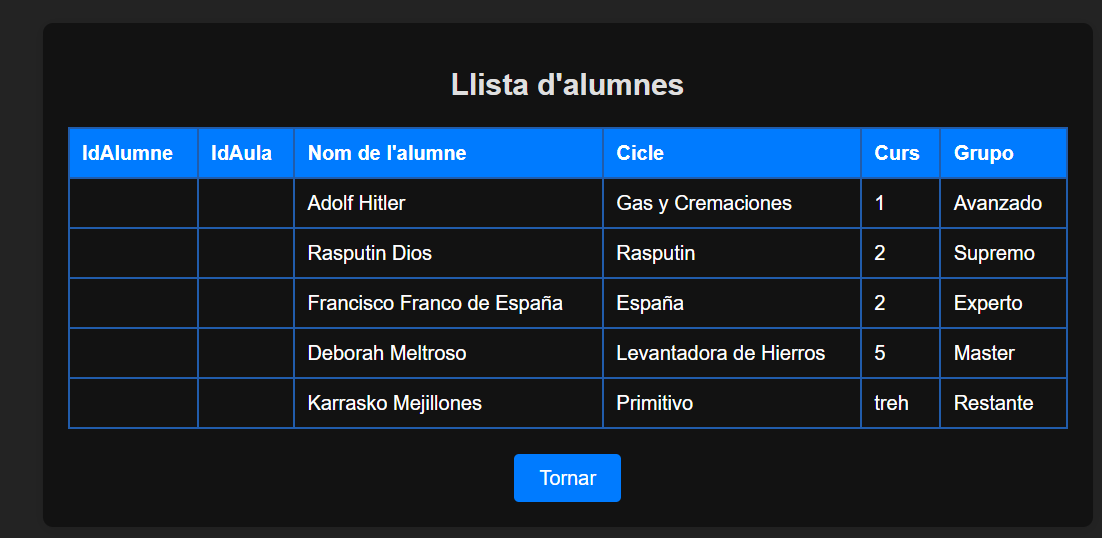
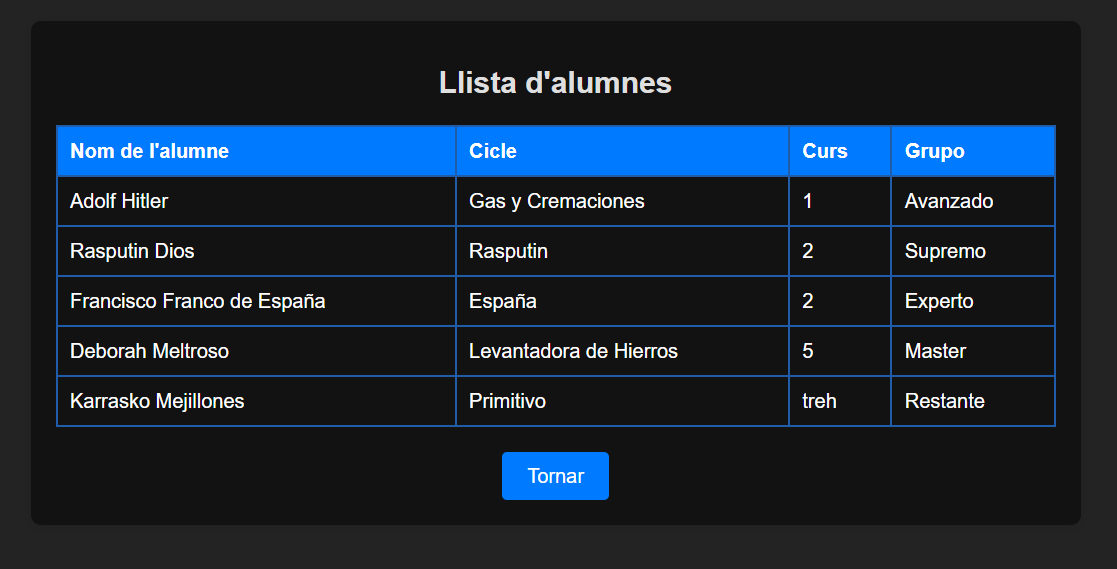
Maquillas pequeños detalles

Changed region(s): [[0.0309, 0.2082, 0.9873, 0.9517], [0.3702, 0.119, 0.6171, 0.1784]]

diff --git a/front/js/script.js b/front/js/script.js
@@ -21,13 +21,13 @@ document.addEventListener("DOMContentLoaded", async function() {
             data.forEach(alumne => {
                 const row = document.createElement("tr");
                 
-                const IdAlumno = document.createElement("td");
-                IdAlumno.textContent = alumne.idAlumno; // Este .idAlumno debe ser igual que en el main/BaseModel usado para este trozo a.k.a alumno_model
-                row.appendChild(IdAlumno);
+                //const IdAlumno = document.createElement("td");
+                //IdAlumno.textContent = alumne.idAlumno; // Este .idAlumno debe ser igual que en el main/BaseModel usado para este trozo a.k.a alumno_model
+                //row.appendChild(IdAlumno);
 
-                const IdAula = document.createElement("td");
-                IdAula.textContent = alumne.idAula; 
-                row.appendChild(IdAula);
+                //const IdAula = document.createElement("td");
+                //IdAula.textContent = alumne.idAula; 
+                //row.appendChild(IdAula);
 
                 const NombreAlum = document.createElement("td");
                 NombreAlum.textContent = alumne.nameAlum;  

diff --git a/front/html/index.html b/front/html/index.html
@@ -4,7 +4,7 @@
     <meta charset="UTF-8">
     <meta name="viewport" content="width=device-width, initial-scale=1.0">
     <title>Llista d'alumnes</title>
-    <link rel="stylesheet" href="../css/styles.csss">
+    <link rel="stylesheet" href="../css/styles.css">
 </head>
 <body>
     <div class="container">

diff --git a/front/html/alumnes.html b/front/html/alumnes.html
@@ -13,8 +13,6 @@
         <table id="tablaAlumne" class="tabla-alumne">
             <thead>
                 <tr>
-                    <th>IdAlumne</th>
-                    <th>IdAula</th>
                     <th>Nom de l'alumne</th>
                     <th>Cicle</th>
                     <th>Curs</th>

diff --git a/API/main.py b/API/main.py
@@ -74,27 +74,13 @@ def read_alumno(orderby: Optional[str] = None, contain: Optional[str] = None, sk
     
     if alum_data is None:
         raise HTTPException(status_code=404, detail="Items not found")
-    """
-    response_data = []
-    for alum in alum_data:
-        response_data.append({
-            "idAlumno":alum[0],
-            "idAula": alum[1],
-            "nameAlum": alum[2],
-            "cicle": alum[3],
-            "course": alum[4],
-            "group": alum[5]
-        })
-
-    return response_data   
-    """
     return [
         {
-            "nameAlum": row[0],   # Assegura't que coincideixi amb el nom esperat
+            "nameAlum": row[0],   
             "cicle": row[1],
-            "course": row[2],     # Mapeja el camp 'curs' a 'course'
-            "group": row[3],      # Mapeja el camp 'grup' a 'group'
-            "descAula": str(row[4])  # Converteix a cadena si és necessari
+            "course": row[2],     
+            "group": row[3],     
+            "descAula": str(row[4])  
         }
         for row in alum_data
     ]

diff --git a/API/db_alumnos.py b/API/db_alumnos.py
@@ -30,7 +30,7 @@ def read(orderby=None, contain=None, skip=0, limit=None):
     try:
         cur = conn.cursor()
         query = """
-        SELECT a.NombreAlum, a.Ciclo, a.Curso, a.Grupo, aula.DescAula
+        SELECT  a.NombreAlum, a.Ciclo, a.Curso, a.Grupo, aula.DescAula
         FROM alumno a
         JOIN aula ON a.IdAula = aula.IdAula
         """
